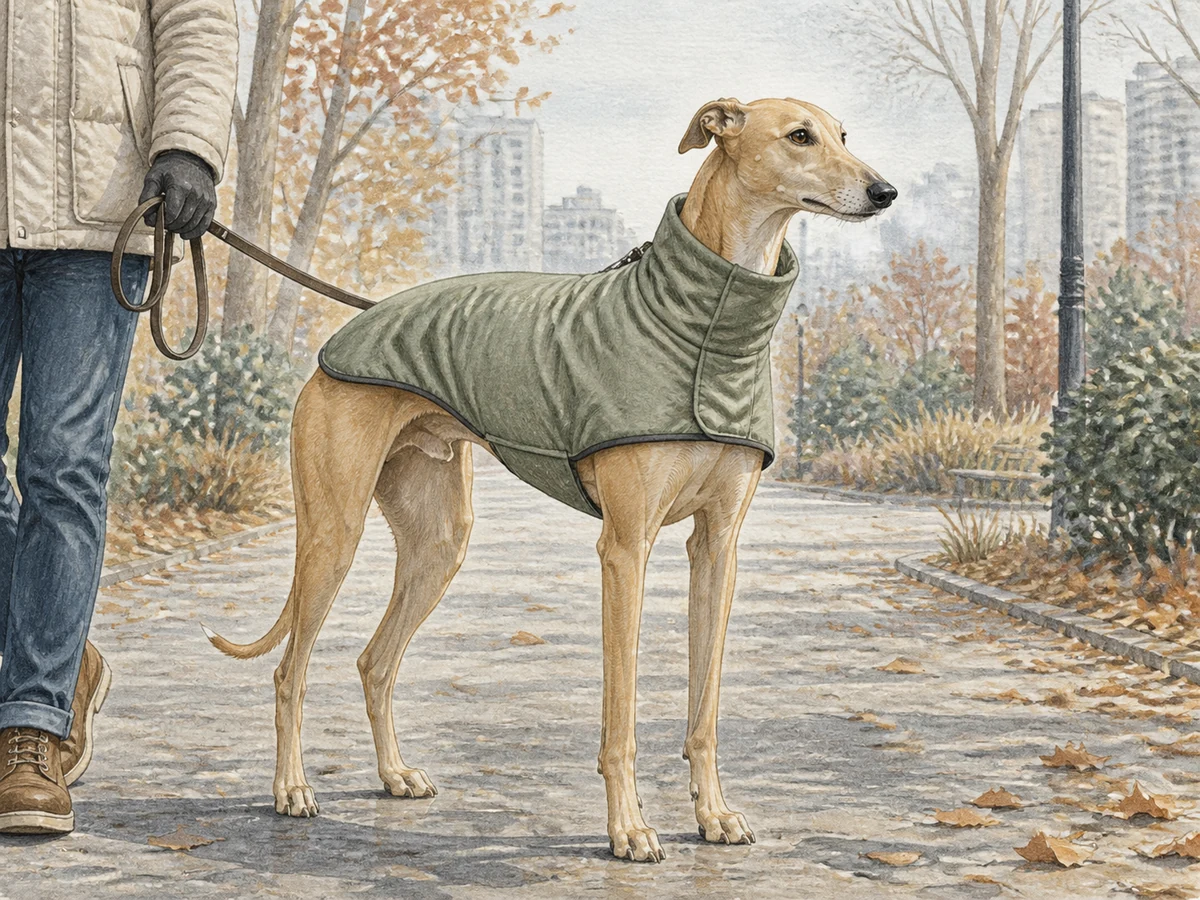
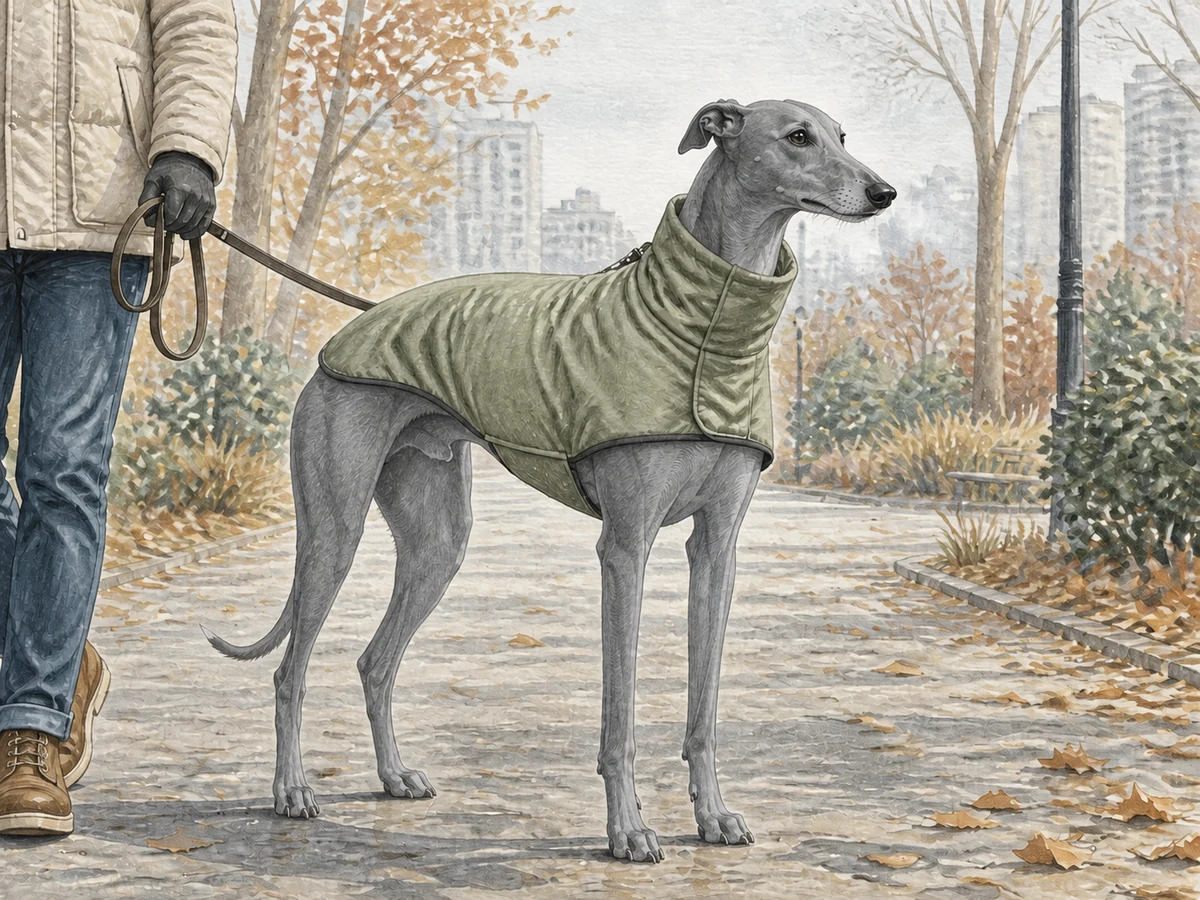
Unify Greyhound feature coat color

diff --git a/docs/image-prompts-greyhound-features-2026-08-20.md b/docs/image-prompts-greyhound-features-2026-08-20.md
@@ -51,7 +51,14 @@
 
 ## 검수 결과
 
-- 세 장 모두 황갈색 성견 그레이하운드의 긴 머리와 다리, 깊은 가슴, 잘록한 허리와 짧은 피모가 유지된다.
+- 후속 편집에서 세 장의 황갈색 피모만 같은 단색 청회색으로 변경했다. 장면·구도·자세·소품은 유지했고 보온 카드의 세이지색 외투도 변경하지 않았다.
+- 세 장 모두 청회색 성견 그레이하운드의 긴 머리와 다리, 깊은 가슴, 잘록한 허리와 짧은 피모가 유지된다.
 - 현대 공원 산책에서의 시각 집중, 울타리 안의 짧은 질주, 보온 코트를 입은 늦가을 산책이 서로 구분되며 기존 역사 장면을 반복하지 않는다.
 - 귀·발·꼬리가 카드 크롭 안에 남고 이미지 안에 글자·워터마크·외곽선이 없다.
 - 생성 원본 1448×1086 PNG를 같은 4:3 비율의 1200×900 WebP로 변환했다.
+
+## 후속 색상 통일 편집 프롬프트
+
+세 이미지에 각각 기존 파일을 편집 대상으로 넣고 아래 지시를 장면별 불변 요소와 함께 적용했다.
+
+`Use case: precise-object-edit. Change only the adult Greyhound's natural fur color from fawn/tan to a consistent solid cool blue-grey (steel-grey) short coat, including all visible natural fur. Preserve subtle watercolor shading and natural highlights. Keep the dog's exact identity, anatomy, pose, facial expression, all people, objects, background, composition, crop, watercolor-and-colored-pencil style, paper texture, and lighting unchanged. For the cold-weather card, keep the muted sage winter garment exactly the same color and shape. Do not turn the fur black, brown, silver-white, brindle, spotted, or mottled. Do not add or remove anything. No text, logos, or watermark.`
